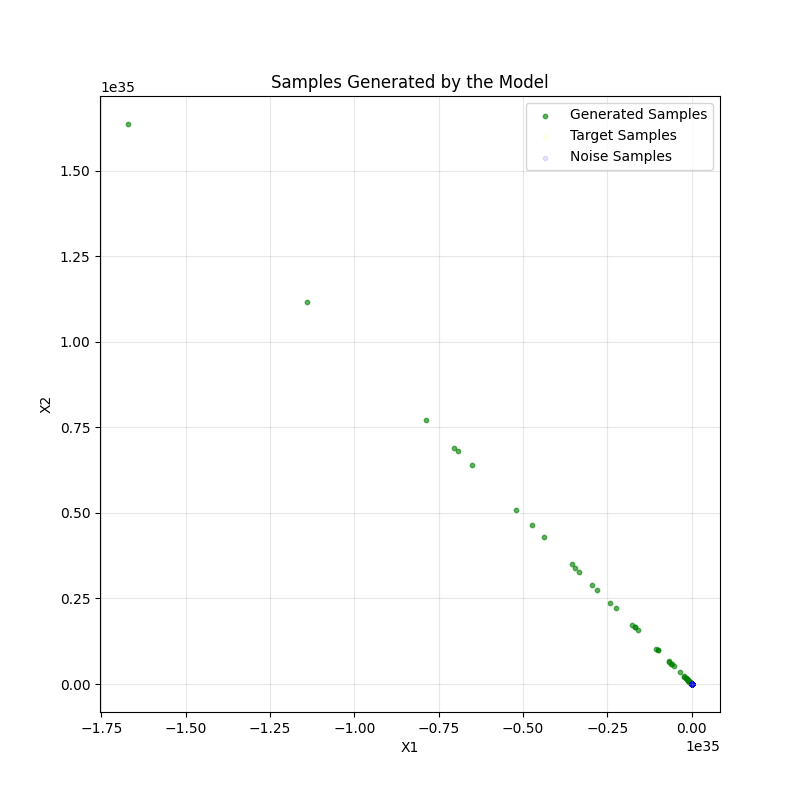
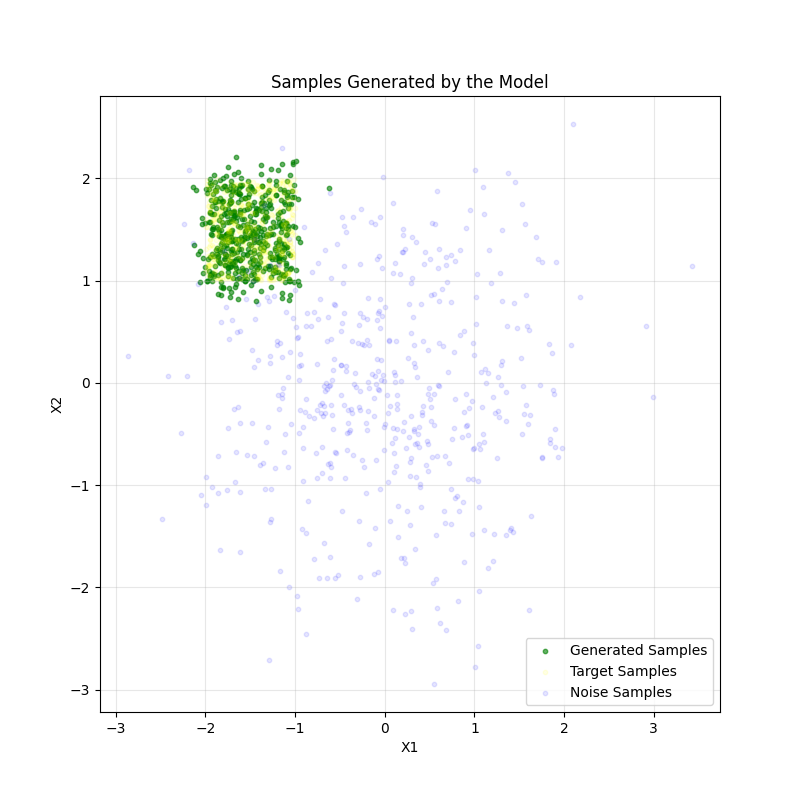
Got somewhat working ODE.
Seems that I need to make it larger and train it for much longer.

Furthermore added some variation preserving noise clipping.

diff --git a/src/model.py b/src/model.py
@@ -41,18 +41,25 @@ class SDE(MLP):
             A JAX array of shape (n_samples, 2) representing generated samples.
         '''
         n_samples = z.shape[0]
-        # Sample from the SDE
-        for step in range(int(1/dt)):
-            key , noise_key = random.split(key)
-            t = jnp.ones((n_samples, 1)) * (1 - step * dt)
+        num_steps = int(1 / dt)
+        t_grid = jnp.linspace(1.0, 0.0, num_steps + 1)
 
-            sigma_min, sigma_max = 0.01, 1.0
-            sigma_t = sigma_min * (sigma_max / sigma_min) ** t
-            model = self(jnp.hstack([z, t]), deterministic=True)
-            score = (1 / sigma_t**2) * model
+        for step in range(num_steps):
+            key, noise_key = random.split(key)
+
+            t_curr = jnp.clip(t_grid[step], 1e-3, 0.999)
+            t = jnp.full((n_samples, 1), t_curr)
+
+            beta_t = 2.0 / jnp.clip(1.0 - t, a_min=1e-3)
+            dt_step = t_grid[step + 1] - t_grid[step]  # negative value for reverse-time integration
+            sqrt_dt = jnp.sqrt(-dt_step)
+
+            score = self(jnp.hstack([z, t]), deterministic=True)
+            drift = -0.5 * beta_t * z - beta_t * score
+            diffusion = jnp.sqrt(beta_t)
+
             noise = random.normal(noise_key, shape=z.shape)
-
-            z = z + sigma_t**2 * score * dt + sigma_t * jnp.sqrt(dt) * noise
+            z = z + drift * dt_step + diffusion * sqrt_dt * noise
 
         return z
 

diff --git a/src/data.py b/src/data.py
@@ -76,15 +76,21 @@ def create_database(x_gen, y_gen, n_samples, key, technique):
         y_data = y_gen(n_samples, key_y)
         t = random.uniform(key_t, shape=(n_samples, 1), minval=0.001, maxval=1)
 
-        # TODO: Implement a more complex noise schedule if desired
-        sigma_min, sigma_max = 0.01, 1.0
-        sigma_t = sigma_min * (sigma_max / sigma_min) ** t
-        
-        # Using x gen as the epsilon as it is noise that is slowly added to the output to get back to the input.
+        # Variance-preserving noise schedule so that large-t samples approach N(0, I)
+        alpha_bar = jnp.clip((1.0 - t) ** 2, a_min=1e-4, a_max=1.0)
+        sigma_t = jnp.sqrt(1.0 - alpha_bar)
+
         epsilon = x_gen(n_samples, key_eps)
-        x_data = y_data + sigma_t * epsilon
-        x_data = jnp.hstack([x_data, t])
-        return x_data, (y_data - x_data[:, :2])
+
+        clean_component = jnp.sqrt(alpha_bar) * y_data
+        noisy_samples = clean_component + sigma_t * epsilon
+
+        x_data = jnp.hstack([noisy_samples, t])
+
+        variance = jnp.clip(1.0 - alpha_bar, a_min=1e-4)
+        true_score = (clean_component - noisy_samples) / variance
+
+        return x_data, true_score
     
     else:
         raise ValueError(f"Unknown technique: {technique}")

diff --git a/main.py b/main.py
@@ -129,7 +129,7 @@ train_batches = partial(
     *data.create_database(
         x_gen=data.create_gaussian,
         y_gen=data.create_dogs,
-        n_samples=10000,
+        n_samples=100000,
         key=random.split(key)[0],
         technique="score_matching",
     ),
@@ -140,7 +140,7 @@ valid_batches = partial(
     *data.create_database(
         x_gen=data.create_gaussian,
         y_gen=data.create_dogs,
-        n_samples=2000,
+        n_samples=20000,
         key=random.split(key)[1],
         technique="score_matching",
     ),
@@ -153,8 +153,10 @@ sde_trained_model, sde_history = train.do_complete_experiment(
     model_class=model.SDE,
     loss_fn=train.score_matching_loss,
     output_dim=2,
-    learning_rate=0.001,
-    num_epochs=100,
+    learning_rate=0.0001,
+    minibatch_size=512,
+    hidden_dims=[512] * 4,
+    num_epochs=400,
 )
 
 inspect.plot_training_history(sde_history, 'sde-training-history')
@@ -167,7 +169,8 @@ inspect.visualize_model_generation(
     target_gen=data.create_dogs,
     n_samples=500,
     key=random.split(key)[1],
-    name="sde-generation"
+    name="sde-generation",
+    dt=0.0001
 )
 
 

diff --git a/src/inspect.py b/src/inspect.py
@@ -273,7 +273,7 @@ def visualize_noise_process(x_data, scores, name=None):
         plt.savefig(output_path + "/" + name + ".png", dpi=150, bbox_inches='tight')
     plt.show()
 
-def visualize_model_generation(model, source_gen, target_gen, n_samples, key, name=None):
+def visualize_model_generation(model, source_gen, target_gen, n_samples, key, dt=0.001, name=None):
     '''
     Visualize samples generated by the model starting from source_gen distribution.
     
@@ -284,7 +284,7 @@ def visualize_model_generation(model, source_gen, target_gen, n_samples, key, na
         name: Name for saving the plot
     '''
     noise_samples = source_gen(n_samples, key)
-    generated_samples = model.generate(noise_samples, key=key, dt=0.001)
+    generated_samples = model.generate(noise_samples, key=key, dt=dt)
 
     target_samples = target_gen(n_samples, key)
 

diff --git a/report.tex b/report.tex
@@ -66,6 +66,15 @@ This document reports the implementation and results of Assignment 4. I implemen
 
 \section{Theory}
 
+I will be looking at two models, a Stochastic Differential Equation (SDE) model and an Ordinary Differential Equation (ODE) model. Both models are generative models that learn a mapping from one distribution to another. The key difference being that the SDE model is score based and stochastic in generation while the ODE model is a normalizing flow model that is deterministic in generation.
+
+\subsection{Flows}
+
+\subsection{Stochastic Differential Equations}
+
+
+\subsection{Ordinary Differential Equations}
+
 
 
 \section{Experiments}
